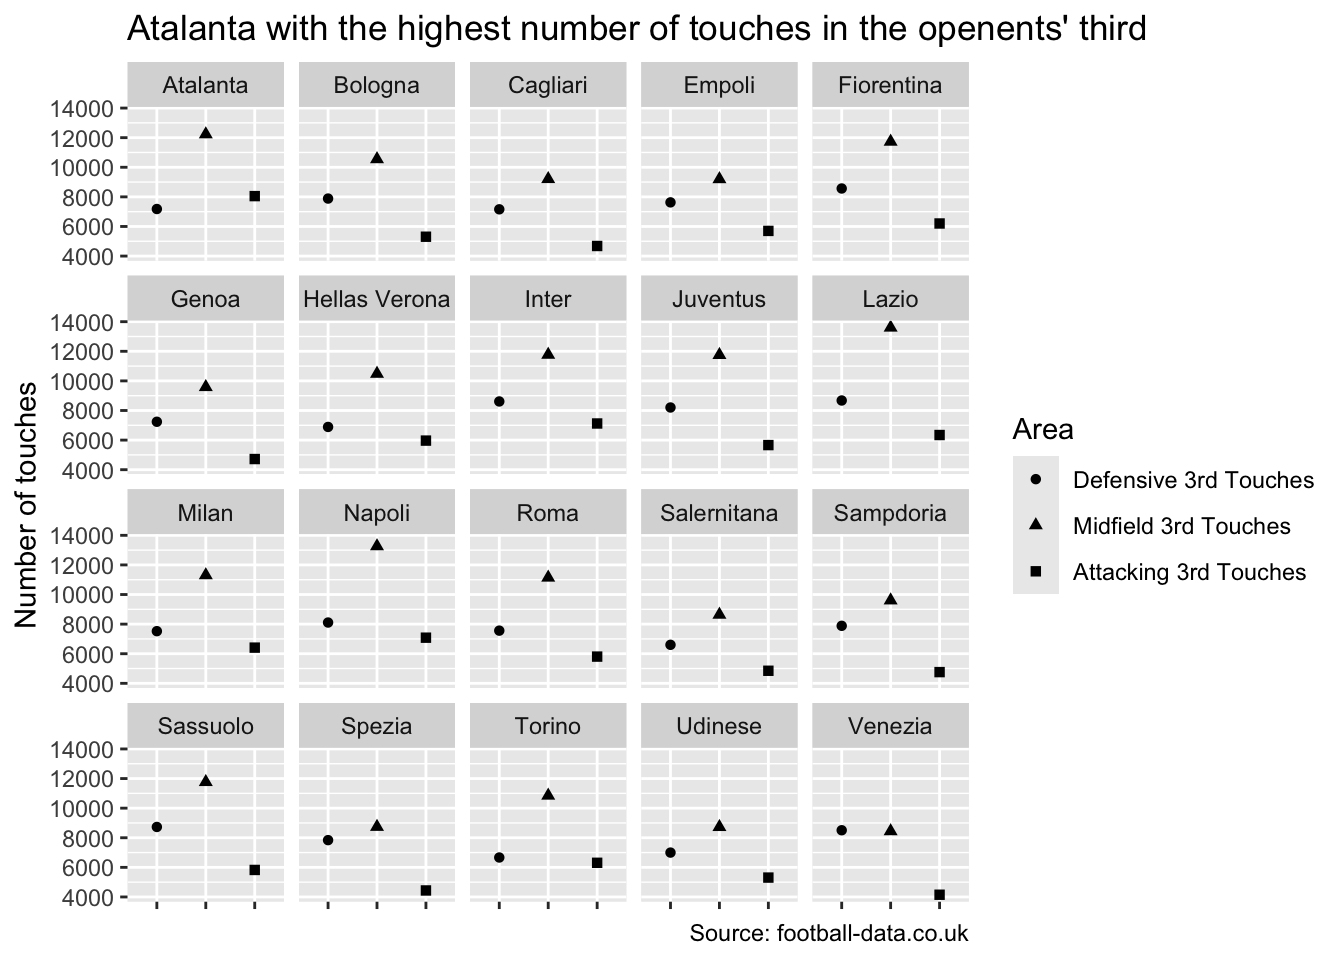
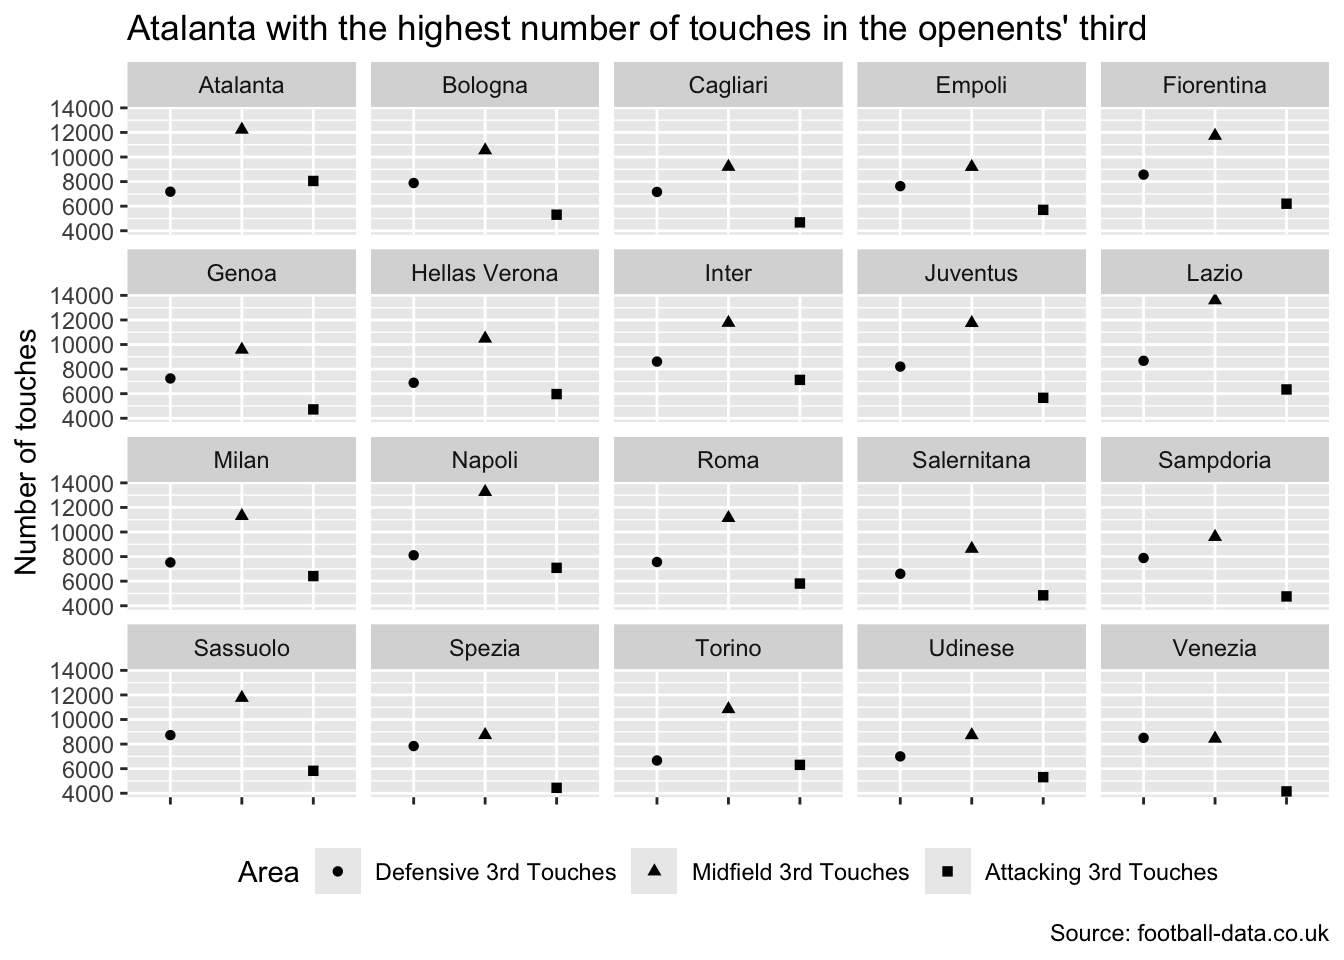
slight update to serie A 2021-22 post: moved legend of viz-7 to bottom of plot

diff --git a/content/en/posts/2024-04-17-serie-a-2021-22-a-data-visualization-case-study/index.en-gb.md b/content/en/posts/2024-04-17-serie-a-2021-22-a-data-visualization-case-study/index.en-gb.md
@@ -173,7 +173,7 @@ ggplotly(ggplot(viz11, aes(x = Time, y = Count, color = Result)) +
 ```
 
 <div class="plotly html-widget html-fill-item" id="htmlwidget-1" style="width:672px;height:480px;"></div>
-<script type="application/json" data-for="htmlwidget-1">{"x":{"data":[{"x":[41400,48600,50400,55800,57600,58500,61200,63000,63900,64800,69300,71100,72000],"y":[13,2,29,3,0,1,22,11,1,1,0,49,2],"text":["Time: 11:30:00<br />Count: 13<br />Result: Away Team Win","Time: 13:30:00<br />Count:  2<br />Result: Away Team Win","Time: 14:00:00<br />Count: 29<br />Result: Away Team Win","Time: 15:30:00<br />Count:  3<br />Result: Away Team Win","Time: 16:00:00<br />Count:  0<br />Result: Away Team Win","Time: 16:15:00<br />Count:  1<br />Result: Away Team Win","Time: 17:00:00<br />Count: 22<br />Result: Away Team Win","Time: 17:30:00<br />Count: 11<br />Result: Away Team Win","Time: 17:45:00<br />Count:  1<br />Result: Away Team Win","Time: 18:00:00<br />Count:  1<br />Result: Away Team Win","Time: 19:15:00<br />Count:  0<br />Result: Away Team Win","Time: 19:45:00<br />Count: 49<br />Result: Away Team Win","Time: 20:00:00<br />Count:  2<br />Result: Away Team Win"],"type":"scatter","mode":"markers","marker":{"autocolorscale":false,"color":"rgba(228,26,28,1)","opacity":1,"size":5.6692913385826778,"symbol":"circle","line":{"width":1.8897637795275593,"color":"rgba(228,26,28,1)"}},"hoveron":"points","name":"Away Team Win","legendgroup":"Away Team Win","showlegend":true,"xaxis":"x","yaxis":"y","hoverinfo":"text","frame":null},{"x":[41400,48600,50400,55800,57600,58500,61200,63000,63900,64800,69300,71100,72000],"y":[7,1,23,1,0,0,14,13,1,2,1,33,2],"text":["Time: 11:30:00<br />Count:  7<br />Result: Draw","Time: 13:30:00<br />Count:  1<br />Result: Draw","Time: 14:00:00<br />Count: 23<br />Result: Draw","Time: 15:30:00<br />Count:  1<br />Result: Draw","Time: 16:00:00<br />Count:  0<br />Result: Draw","Time: 16:15:00<br />Count:  0<br />Result: Draw","Time: 17:00:00<br />Count: 14<br />Result: Draw","Time: 17:30:00<br />Count: 13<br />Result: Draw","Time: 17:45:00<br />Count:  1<br />Result: Draw","Time: 18:00:00<br />Count:  2<br />Result: Draw","Time: 19:15:00<br />Count:  1<br />Result: Draw","Time: 19:45:00<br />Count: 33<br />Result: Draw","Time: 20:00:00<br />Count:  2<br />Result: Draw"],"type":"scatter","mode":"markers","marker":{"autocolorscale":false,"color":"rgba(55,126,184,1)","opacity":1,"size":5.6692913385826778,"symbol":"circle","line":{"width":1.8897637795275593,"color":"rgba(55,126,184,1)"}},"hoveron":"points","name":"Draw","legendgroup":"Draw","showlegend":true,"xaxis":"x","yaxis":"y","hoverinfo":"text","frame":null},{"x":[41400,48600,50400,55800,57600,58500,61200,63000,63900,64800,69300,71100,72000],"y":[13,1,36,2,1,0,31,16,2,0,1,41,4],"text":["Time: 11:30:00<br />Count: 13<br />Result: Home Team Win","Time: 13:30:00<br />Count:  1<br />Result: Home Team Win","Time: 14:00:00<br />Count: 36<br />Result: Home Team Win","Time: 15:30:00<br />Count:  2<br />Result: Home Team Win","Time: 16:00:00<br />Count:  1<br />Result: Home Team Win","Time: 16:15:00<br />Count:  0<br />Result: Home Team Win","Time: 17:00:00<br />Count: 31<br />Result: Home Team Win","Time: 17:30:00<br />Count: 16<br />Result: Home Team Win","Time: 17:45:00<br />Count:  2<br />Result: Home Team Win","Time: 18:00:00<br />Count:  0<br />Result: Home Team Win","Time: 19:15:00<br />Count:  1<br />Result: Home Team Win","Time: 19:45:00<br />Count: 41<br />Result: Home Team Win","Time: 20:00:00<br />Count:  4<br />Result: Home Team Win"],"type":"scatter","mode":"markers","marker":{"autocolorscale":false,"color":"rgba(77,175,74,1)","opacity":1,"size":5.6692913385826778,"symbol":"circle","line":{"width":1.8897637795275593,"color":"rgba(77,175,74,1)"}},"hoveron":"points","name":"Home Team Win","legendgroup":"Home Team Win","showlegend":true,"xaxis":"x","yaxis":"y","hoverinfo":"text","frame":null}],"layout":{"margin":{"t":43.762557077625573,"r":7.3059360730593621,"b":40.182648401826498,"l":37.260273972602747},"font":{"color":"rgba(0,0,0,1)","family":"","size":14.611872146118724},"title":{"text":"Time of match does not have any influence on the result","font":{"color":"rgba(0,0,0,1)","family":"","size":17.534246575342465},"x":0,"xref":"paper"},"xaxis":{"domain":[0,1],"automargin":true,"type":"linear","autorange":false,"range":[39870,73530],"tickmode":"array","ticktext":["12:00:00","14:00:00","16:00:00","18:00:00","20:00:00"],"tickvals":[43200,50400,57600,64800,72000],"categoryorder":"array","categoryarray":["12:00:00","14:00:00","16:00:00","18:00:00","20:00:00"],"nticks":null,"ticks":"","tickcolor":null,"ticklen":3.6529680365296811,"tickwidth":0,"showticklabels":true,"tickfont":{"color":"rgba(77,77,77,1)","family":"","size":11.68949771689498},"tickangle":-0,"showline":false,"linecolor":null,"linewidth":0,"showgrid":true,"gridcolor":"rgba(235,235,235,1)","gridwidth":0.66417600664176002,"zeroline":false,"anchor":"y","title":{"text":"Time","font":{"color":"rgba(0,0,0,1)","family":"","size":14.611872146118724}},"hoverformat":".2f"},"yaxis":{"domain":[0,1],"automargin":true,"type":"linear","autorange":false,"range":[-2.4500000000000002,51.450000000000003],"tickmode":"array","ticktext":["0","10","20","30","40","50"],"tickvals":[0,10,20,30.000000000000004,40,50],"categoryorder":"array","categoryarray":["0","10","20","30","40","50"],"nticks":null,"ticks":"","tickcolor":null,"ticklen":3.6529680365296811,"tickwidth":0,"showticklabels":true,"tickfont":{"color":"rgba(77,77,77,1)","family":"","size":11.68949771689498},"tickangle":-0,"showline":false,"linecolor":null,"linewidth":0,"showgrid":true,"gridcolor":"rgba(235,235,235,1)","gridwidth":0.66417600664176002,"zeroline":false,"anchor":"x","title":{"text":"Count","font":{"color":"rgba(0,0,0,1)","family":"","size":14.611872146118724}},"hoverformat":".2f"},"shapes":[{"type":"rect","fillcolor":null,"line":{"color":null,"width":0,"linetype":[]},"yref":"paper","xref":"paper","x0":0,"x1":1,"y0":0,"y1":1}],"showlegend":true,"legend":{"bgcolor":null,"bordercolor":null,"borderwidth":0,"font":{"color":"rgba(0,0,0,1)","family":"","size":11.68949771689498},"title":{"text":"Result","font":{"color":"rgba(0,0,0,1)","family":"","size":14.611872146118724}}},"hovermode":"closest","barmode":"relative"},"config":{"doubleClick":"reset","modeBarButtonsToAdd":["hoverclosest","hovercompare"],"showSendToCloud":false},"source":"A","attrs":{"17ef3269a0fc":{"x":{},"y":{},"colour":{},"type":"scatter"}},"cur_data":"17ef3269a0fc","visdat":{"17ef3269a0fc":["function (y) ","x"]},"highlight":{"on":"plotly_click","persistent":false,"dynamic":false,"selectize":false,"opacityDim":0.20000000000000001,"selected":{"opacity":1},"debounce":0},"shinyEvents":["plotly_hover","plotly_click","plotly_selected","plotly_relayout","plotly_brushed","plotly_brushing","plotly_clickannotation","plotly_doubleclick","plotly_deselect","plotly_afterplot","plotly_sunburstclick"],"base_url":"https://plot.ly"},"evals":[],"jsHooks":[]}</script>
+<script type="application/json" data-for="htmlwidget-1">{"x":{"data":[{"x":[41400,48600,50400,55800,57600,58500,61200,63000,63900,64800,69300,71100,72000],"y":[13,2,29,3,0,1,22,11,1,1,0,49,2],"text":["Time: 11:30:00<br />Count: 13<br />Result: Away Team Win","Time: 13:30:00<br />Count:  2<br />Result: Away Team Win","Time: 14:00:00<br />Count: 29<br />Result: Away Team Win","Time: 15:30:00<br />Count:  3<br />Result: Away Team Win","Time: 16:00:00<br />Count:  0<br />Result: Away Team Win","Time: 16:15:00<br />Count:  1<br />Result: Away Team Win","Time: 17:00:00<br />Count: 22<br />Result: Away Team Win","Time: 17:30:00<br />Count: 11<br />Result: Away Team Win","Time: 17:45:00<br />Count:  1<br />Result: Away Team Win","Time: 18:00:00<br />Count:  1<br />Result: Away Team Win","Time: 19:15:00<br />Count:  0<br />Result: Away Team Win","Time: 19:45:00<br />Count: 49<br />Result: Away Team Win","Time: 20:00:00<br />Count:  2<br />Result: Away Team Win"],"type":"scatter","mode":"markers","marker":{"autocolorscale":false,"color":"rgba(228,26,28,1)","opacity":1,"size":5.6692913385826778,"symbol":"circle","line":{"width":1.8897637795275593,"color":"rgba(228,26,28,1)"}},"hoveron":"points","name":"Away Team Win","legendgroup":"Away Team Win","showlegend":true,"xaxis":"x","yaxis":"y","hoverinfo":"text","frame":null},{"x":[41400,48600,50400,55800,57600,58500,61200,63000,63900,64800,69300,71100,72000],"y":[7,1,23,1,0,0,14,13,1,2,1,33,2],"text":["Time: 11:30:00<br />Count:  7<br />Result: Draw","Time: 13:30:00<br />Count:  1<br />Result: Draw","Time: 14:00:00<br />Count: 23<br />Result: Draw","Time: 15:30:00<br />Count:  1<br />Result: Draw","Time: 16:00:00<br />Count:  0<br />Result: Draw","Time: 16:15:00<br />Count:  0<br />Result: Draw","Time: 17:00:00<br />Count: 14<br />Result: Draw","Time: 17:30:00<br />Count: 13<br />Result: Draw","Time: 17:45:00<br />Count:  1<br />Result: Draw","Time: 18:00:00<br />Count:  2<br />Result: Draw","Time: 19:15:00<br />Count:  1<br />Result: Draw","Time: 19:45:00<br />Count: 33<br />Result: Draw","Time: 20:00:00<br />Count:  2<br />Result: Draw"],"type":"scatter","mode":"markers","marker":{"autocolorscale":false,"color":"rgba(55,126,184,1)","opacity":1,"size":5.6692913385826778,"symbol":"circle","line":{"width":1.8897637795275593,"color":"rgba(55,126,184,1)"}},"hoveron":"points","name":"Draw","legendgroup":"Draw","showlegend":true,"xaxis":"x","yaxis":"y","hoverinfo":"text","frame":null},{"x":[41400,48600,50400,55800,57600,58500,61200,63000,63900,64800,69300,71100,72000],"y":[13,1,36,2,1,0,31,16,2,0,1,41,4],"text":["Time: 11:30:00<br />Count: 13<br />Result: Home Team Win","Time: 13:30:00<br />Count:  1<br />Result: Home Team Win","Time: 14:00:00<br />Count: 36<br />Result: Home Team Win","Time: 15:30:00<br />Count:  2<br />Result: Home Team Win","Time: 16:00:00<br />Count:  1<br />Result: Home Team Win","Time: 16:15:00<br />Count:  0<br />Result: Home Team Win","Time: 17:00:00<br />Count: 31<br />Result: Home Team Win","Time: 17:30:00<br />Count: 16<br />Result: Home Team Win","Time: 17:45:00<br />Count:  2<br />Result: Home Team Win","Time: 18:00:00<br />Count:  0<br />Result: Home Team Win","Time: 19:15:00<br />Count:  1<br />Result: Home Team Win","Time: 19:45:00<br />Count: 41<br />Result: Home Team Win","Time: 20:00:00<br />Count:  4<br />Result: Home Team Win"],"type":"scatter","mode":"markers","marker":{"autocolorscale":false,"color":"rgba(77,175,74,1)","opacity":1,"size":5.6692913385826778,"symbol":"circle","line":{"width":1.8897637795275593,"color":"rgba(77,175,74,1)"}},"hoveron":"points","name":"Home Team Win","legendgroup":"Home Team Win","showlegend":true,"xaxis":"x","yaxis":"y","hoverinfo":"text","frame":null}],"layout":{"margin":{"t":43.762557077625573,"r":7.3059360730593621,"b":40.182648401826498,"l":37.260273972602747},"font":{"color":"rgba(0,0,0,1)","family":"","size":14.611872146118724},"title":{"text":"Time of match does not have any influence on the result","font":{"color":"rgba(0,0,0,1)","family":"","size":17.534246575342465},"x":0,"xref":"paper"},"xaxis":{"domain":[0,1],"automargin":true,"type":"linear","autorange":false,"range":[39870,73530],"tickmode":"array","ticktext":["12:00:00","14:00:00","16:00:00","18:00:00","20:00:00"],"tickvals":[43200,50400,57600,64800,72000],"categoryorder":"array","categoryarray":["12:00:00","14:00:00","16:00:00","18:00:00","20:00:00"],"nticks":null,"ticks":"","tickcolor":null,"ticklen":3.6529680365296811,"tickwidth":0,"showticklabels":true,"tickfont":{"color":"rgba(77,77,77,1)","family":"","size":11.68949771689498},"tickangle":-0,"showline":false,"linecolor":null,"linewidth":0,"showgrid":true,"gridcolor":"rgba(235,235,235,1)","gridwidth":0.66417600664176002,"zeroline":false,"anchor":"y","title":{"text":"Time","font":{"color":"rgba(0,0,0,1)","family":"","size":14.611872146118724}},"hoverformat":".2f"},"yaxis":{"domain":[0,1],"automargin":true,"type":"linear","autorange":false,"range":[-2.4500000000000002,51.450000000000003],"tickmode":"array","ticktext":["0","10","20","30","40","50"],"tickvals":[0,10,20,30.000000000000004,40,50],"categoryorder":"array","categoryarray":["0","10","20","30","40","50"],"nticks":null,"ticks":"","tickcolor":null,"ticklen":3.6529680365296811,"tickwidth":0,"showticklabels":true,"tickfont":{"color":"rgba(77,77,77,1)","family":"","size":11.68949771689498},"tickangle":-0,"showline":false,"linecolor":null,"linewidth":0,"showgrid":true,"gridcolor":"rgba(235,235,235,1)","gridwidth":0.66417600664176002,"zeroline":false,"anchor":"x","title":{"text":"Count","font":{"color":"rgba(0,0,0,1)","family":"","size":14.611872146118724}},"hoverformat":".2f"},"shapes":[{"type":"rect","fillcolor":null,"line":{"color":null,"width":0,"linetype":[]},"yref":"paper","xref":"paper","x0":0,"x1":1,"y0":0,"y1":1}],"showlegend":true,"legend":{"bgcolor":null,"bordercolor":null,"borderwidth":0,"font":{"color":"rgba(0,0,0,1)","family":"","size":11.68949771689498},"title":{"text":"Result","font":{"color":"rgba(0,0,0,1)","family":"","size":14.611872146118724}}},"hovermode":"closest","barmode":"relative"},"config":{"doubleClick":"reset","modeBarButtonsToAdd":["hoverclosest","hovercompare"],"showSendToCloud":false},"source":"A","attrs":{"1b133ddb84f3":{"x":{},"y":{},"colour":{},"type":"scatter"}},"cur_data":"1b133ddb84f3","visdat":{"1b133ddb84f3":["function (y) ","x"]},"highlight":{"on":"plotly_click","persistent":false,"dynamic":false,"selectize":false,"opacityDim":0.20000000000000001,"selected":{"opacity":1},"debounce":0},"shinyEvents":["plotly_hover","plotly_click","plotly_selected","plotly_relayout","plotly_brushed","plotly_brushing","plotly_clickannotation","plotly_doubleclick","plotly_deselect","plotly_afterplot","plotly_sunburstclick"],"base_url":"https://plot.ly"},"evals":[],"jsHooks":[]}</script>
 
 ### Viualization 5 - Ball Possession Breakdown: A Bar Chart Analysis
 
@@ -244,7 +244,8 @@ ggplot(data3, aes(x = area_pitch, y = touches, shape = area_pitch))+
   theme(axis.text.x = element_blank())+
   facet_wrap(~Squad) +
   labs(shape = "Area",title = "Atalanta with the highest number of touches in the openents' third",
-       caption = "Source: football-data.co.uk", y = "Number of touches", x = NULL)
+       caption = "Source: football-data.co.uk", y = "Number of touches", x = NULL)+
+  theme(legend.position = "bottom")
 ```
 
 <img src="/en/posts/2024-04-17-serie-a-2021-22-a-data-visualization-case-study/index.en-gb_files/figure-html/visualization_8-1.png" width="672" />
